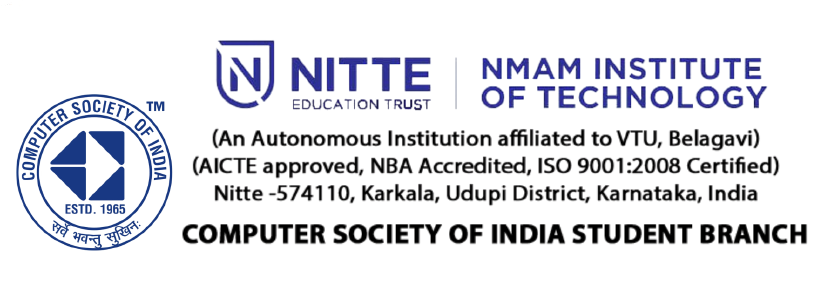
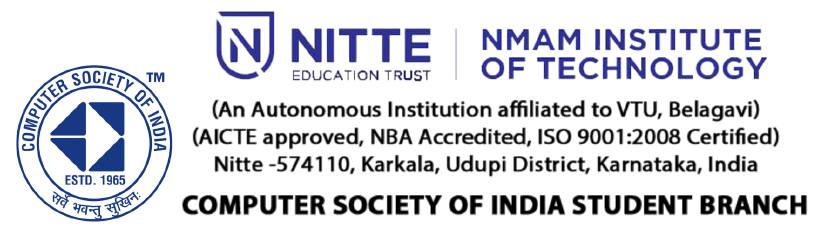
added

diff --git a/index.html b/index.html
@@ -46,7 +46,7 @@
 	<div class="container-fluid top">
 		<header>
 			<div class="text-center">
-				<img src="images/csi_header1_.png " height="200" width="auto">
+				<img src="images/csi_header1_.png " height="150" width="auto">
 			</div>
 		</header>
 	</div>
